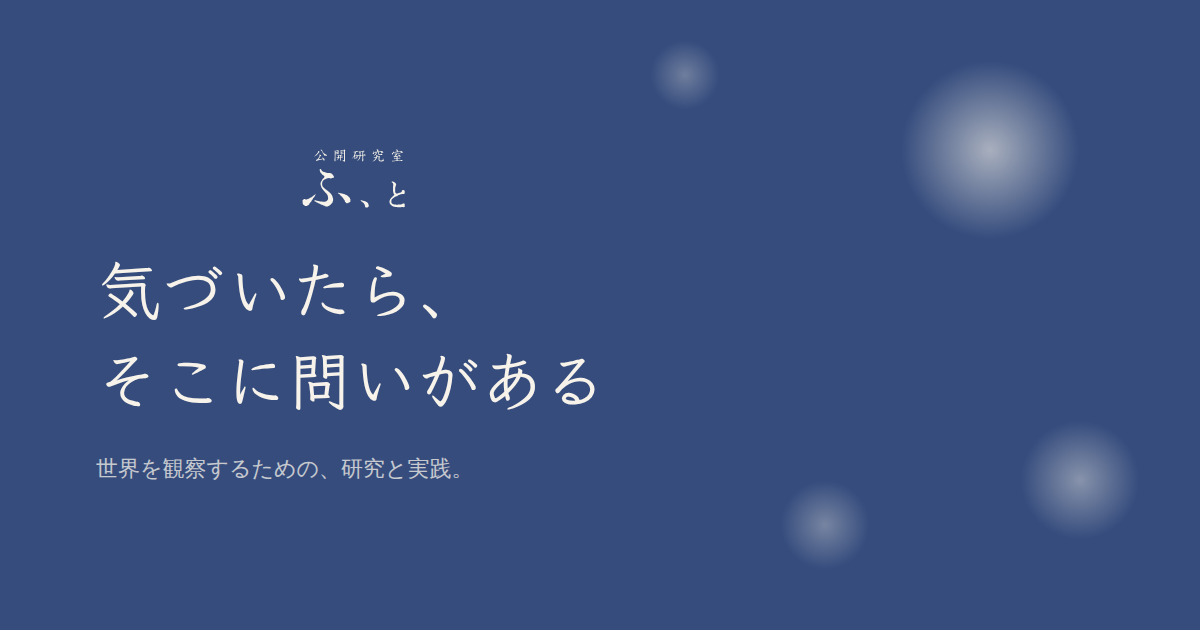
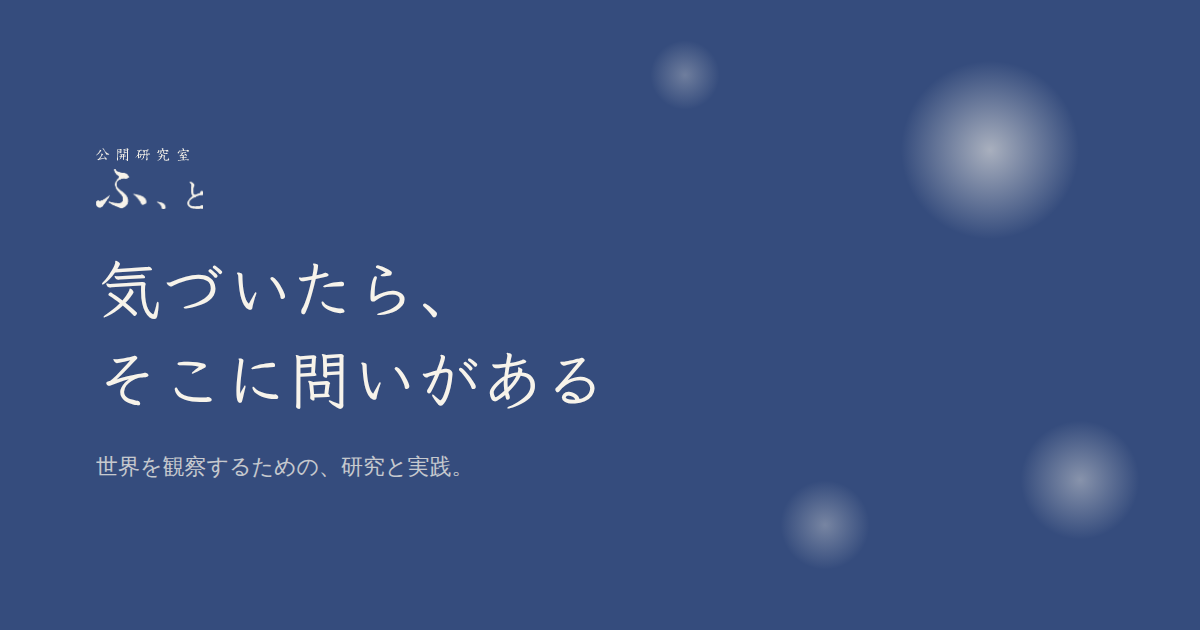
fix(ogp): 「公開研究室」ラベルをロゴタイプと左揃えに調整
logo.svgはラベルとロゴタイプが単一pathに統合されておりCSS側で
分離できないため、Canvas経由で両者をそれぞれの余白ぴったりで
ラスタークロップし、独立した2枚の画像として左揃えで配置する
構成に変更した。サイト本体のHeaderロゴは変更していない。

Claude-Session: https://claude.ai/code/session_01U63NYtdnMjzTAej9nbejLb

diff --git a/docs/Decision_Log/0082-hero-heading-font-and-ogp.md b/docs/Decision_Log/0082-hero-heading-font-and-ogp.md
@@ -36,6 +36,17 @@ Google Fonts)を選んだ。
   `public/images/ogp/default.png`(1200×630、上記Klee One適用後の
   Hero見出し・ロゴ・タグラインで構成)を全ページ共通で使う。
   ページごとのtitle/descriptionはprops経由でそのまま反映される。
+- **OGP画像のロゴ配置調整(同日追記)**: 初稿では、`logo.svg`
+  (「公開研究室」ラベルと「ふ、と」ロゴタイプが1つの結合パスとして
+  収録されている)をそのまま1枚の画像として配置していたため、
+  ラベルがロゴタイプに対して中央寄りに見え、OGP画像内で左揃えに
+  なっていないという指摘を受けた。`logo.svg`はラベルとロゴタイプが
+  単一の`<path>`に統合されており、DOM/CSS側からは分離できないため、
+  Canvas経由でラベル部分(y: 14–66)とロゴタイプ部分(y: 97–258)を
+  それぞれの実際の余白(左右の空白)ぴったりでラスタークロップし、
+  2枚の独立した画像として左揃えで縦に並べる構成に変更した。
+  この調整はOGP画像生成専用のもので、サイト本体のHeaderロゴ
+  (`public/images/logo/logo.svg`)は変更していない。
 
 ## 採用理由
 
